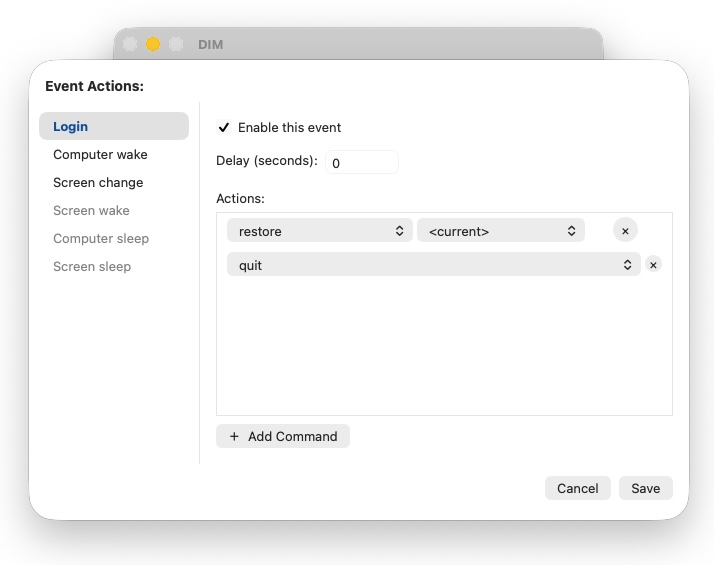
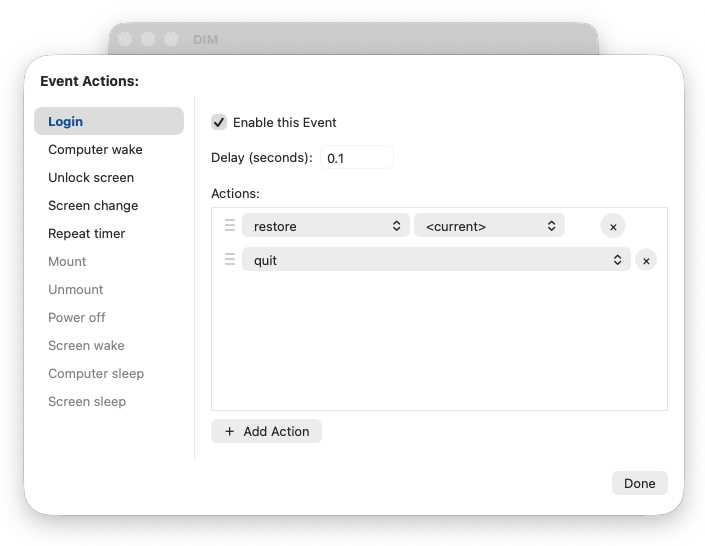
update Help

diff --git a/DIM/Resources/DIM 4.0.help/Contents/Resources/en.lproj/Miscellaneous.html b/DIM/Resources/DIM 4.0.help/Contents/Resources/en.lproj/Miscellaneous.html
@@ -19,17 +19,19 @@
 <p class="Left Normal"><b>2) Known Problems/Bugs</p>
 </b><p class="Left Normal">Multiple monitors are <i>technically</i> not supported. However, my own use (along with 100s of users) show no problems if both monitors’ arrangements are not changed between the “Memorize Icon Positions” and “Restore Icon Positions”. The worst case scenario here is that some icons may be placed outside of either monitors’ viewing area. If this is the case, click anywhere on the Desktop and then in the Finder’s View menu, simply select Clean Up and all the icons will reappear, most likely in places you don’t like, but at least you can rearrange them. </p>
 <p class="Left Normal"><b>3) Tricks</b></p>
-<p class="Left Normal">After the first time use, specifying DIM as a Login Item will adjust the icons positions after the Finder starts up (make sure to check “Automatically Restore Icon Positions at start” for this behavior).</p>
-<p class="Left Normal">DIM uses its own preference file (stored in ~/Library/Containers/DIM or ~/Library/Group Containers/group.com.parker9.DIM-4 for v4.6+) so previous versions of DIM will still work and different users can use the same application for their own Desktop and Finder windows. Starting in version 4.6, preferences are stored in an App Group preference. This allows for data exchange between sandboxed applications (here, DIM Helper and Hide Icons). The old preference file will be used to create the initial Add Group preferences but otherwise ignored for versions 4.6+.</p>
-<p class="Left Normal">If "Memorize icon Postions" is checked and "at Quit" is selected then quiting, log off, restart and shutdown all trigger a memorization.  </p>
+<p class="Left Normal">After the first time use, specifying DIM as a Login Item will adjust the icons positions after the Finder starts up (make sure to check “Automatically Restore Icon Positions at start” for this behavior). However, if you're running macOS 13 (Ventura) or later, it's better to "Start DIM Helper" and specify actions for the "Login" event. You can do both, but note that any actions DIM Helper does only are executed if DIM is not open. See <b>14</b> on "After the first time use" in this Help for more information.</p>
+<p class="Left Normal">DIM uses its own preference file (stored in ~/Library/Containers/DIM) so different users can use the same application for their own Desktop and Finder windows. Starting in version 4.6, additional preferences are stored in an App Group preference. This allows for data exchange between sandboxed applications (here, DIM Helper and Hide Icons).</p>
+<p class="Left Normal">If "Memorize icon Positions" is checked and "at Quit" is selected then quitting, log off, restart and shutdown all trigger a memorization.  </p>
 <p class="Left Normal"><b>4) Exporting/Importing Settings</b></p>
-<p class="Left Normal">You can import/export DIM Settings from the File menu. Please note, Settings may contain sensitive information (e.g. icon names). These Settings are transferrable between different users and/or Macs. Exported Settings can be viewed in Xcode or via Terminal by using "defaults read <i>exported_settings_file</i>" command. During import, one has options to completely replace the current Settings, merge into current Settings or merge current Settings into the imported Settings. For the latter two options, if the current Settings and imported Settings share an icon Arrangment the resulting icon Arrangemnt will be the union of the two if "include any missing icons" is selected otherwise the specified icon Arrangment is used.</p>
+<p class="Left Normal">You can import/export DIM Settings from the File menu. Please note, Settings may contain sensitive information (e.g. icon names). These Settings are transferrable between different users and/or Macs. Exported Settings can be viewed in Xcode or via Terminal by using "defaults read <i>exported_settings_file</i>" command. During import, one has options to completely replace the current Settings, merge into current Settings or merge current Settings into the imported Settings. For the latter two options, if the current Settings and imported Settings share an icon Arrangement the resulting icon Arrangement will be the union of the two if "include any missing icons" is selected otherwise the specified icon Arrangement is used.</p>
 <p class="Left Normal"><b>5) Checking for updates</b></p>
 <p class="Left Normal">DIM allows one to check for updates from the main DIM menu. If an update is available, you can either download directly through DIM or use a browser to retrieve the update. Checking for updates may take awhile depending of local machine load and network connection quality. Regardless, no information is sent to the servers other than your IP number which is only tracked by the hosting servicer.</p>
 <p class="Left Normal"><b>6) System Events</b></p>
-<p class="Left Normal">If DIM Helper is running, you can have DIM respond to certain system events (for example: login, computer wake, etc.) with various actions (for example: restore, quit, etc.) if DIM is <i>not</i> running.  One can use both the Login event and the default behavior of how DIM starts since any actions caused by an event bypasses the default start behavior of DIM. Finally, DIM must not be running when any action is triggered, otherwise the actions will be ignored.</p>
-<p class="Left Normal"><b>7) FAQ</b></p>
-<p class="Left Normal"><i><u>DIM doesn’t seem to be working correctly, what’s going on?</u></i><u> </u>Strange, it’s been working fine for me and many others. First, you are running macOS 10.10 or later? If not, go find <a href="http://www.parker9.com/desktopIconManager4.html#d">DIM 2.1.0</a>, that should work for you (unless you're really old school and are running System 7.5-9, then you need <a href="http://www.parker9.com/desktopIconManager4.html#d">DIM 1.3.1</a>). Next, with DIM not running, try deleting the folder ~/Library/Containers/DIM/ (the “~” means your home directory, you’ll probably need to use Finder’s Go>Go to Folder… to get there). Later versions of macOS cache some files, so a logout/restart may be necessary. Then try DIM again. If that doesn’t work, try downloading a fresh copy of DIM. If still not working, perhaps macOS has decided not to allow DIM to talk to the Finder. Go to System Settings…>Privacy & Security and select Automation on the right tab, it should have an entry for DIM on the right that looks something like
+<p class="Left Normal">If DIM Helper is running, you can have DIM respond to certain system events (for example: login, computer wake, etc.) with various actions (for example: restore, quit, etc.) if DIM is <i>not</i> running.  One can use both the Login event and the default behavior of how DIM starts since any actions caused by an event bypasses the default start behavior of DIM. Finally, DIM must not be running when any action is triggered, otherwise the actions will be ignored. DIM Helper and Hide Icons are only available on Ventura and latter.</p>
+<p class="Left Normal"><b>7) Terminal commands</b></p>
+<p class="Left Normal">On Big Sur (macOS 11) and later, you can monitor DIM via the <i>log stream --predicate 'subsystem == "com.parker9.DIM-4"' --level debug</i> in Terminal to observe various events DIM and its helper apps are doing. For any version of macOS, one can inspect/modify the main DIM preference file with <i>defaults read com.parker9.DIM-4</i> while <i>defaults read ~/Library/Group\ Containers/group.com.parker9.DIM-4/Library/Preferences/group.com.parker9.DIM-4.plist</i> does the same for the Group App preferences file.</p>
+<p class="Left Normal"><b>8) FAQ</b></p>
+<p class="Left Normal"><i><u>DIM doesn’t seem to be working correctly, what’s going on?</u></i><u> </u>Strange, it’s been working fine for me and many others. First, you are running macOS 10.10 or later? If not, go find <a href="http://www.parker9.com/desktopIconManager4.html#d">DIM 2.1.0</a>, that should work for you (unless you're really old school and are running System 7.5-9, then you need <a href="http://www.parker9.com/desktopIconManager4.html#d">DIM 1.3.1</a>). Next, with DIM not running, try deleting the main preference by <i>defaults delete com.parker9.DIM-4</i> in Terminal. Then try DIM again. If that doesn’t work, try downloading a fresh copy of DIM. If still not working, perhaps macOS has decided not to allow DIM to talk to the Finder. Go to System Settings…>Privacy & Security and select Automation on the right tab, it should have an entry for DIM on the right that looks something like
 <img src="Miscellaneous.jpg" alt="" />
 </p>
 <p class="Left Normal">Select Finder under DIM. If DIM is <b>not</b> listed, then macOS has decided that DIM can not talk to the Finder. Unfortunately, the only way I know how to fix this is quit DIM and then go into Terminal (Applications/Utilities) and type “tccutil reset AppleEvents” (without the quotes) and hit return/enter. Running DIM now should pop up an macOS alert and make sure you say “OK”. If it’s still not working, you can delete all permissions granted to DIM in the Terminal. First, Quit DIM and in the Terminal enter "sqlite3 ~/Library/Application\ Support/com.apple.TCC/TCC.db 'DELETE FROM access WHERE client IS "com.parker9.DIM-4"'" (strip the outer quotes, but keep the rest). For more information please see <a href="https://entonos.com/2023/06/23/how-to-modify-tcc-on-macos/">here</a>. If that fails, you can drop me an email at DIM@parker9.com with as much detail as you can about the problem, including the macOS version you are using.</p>
@@ -40,10 +42,14 @@
 <!--
 <p class="Left Normal"><i><u>Instead of icons, can DIM place windows at saved locations?</u></i> Yes, but only for windows in Icon View.</p>
 -->
-<p class="Left Normal"><i><u>When “Automatically Restore Icon Positions at start” and “Quit” are selected, the countdown is too slow/fast!</u></i> The integer <em>quitCount</em> in DIM's plist file is how many 1/5 of a second to wait before quiting. If not present, the value is assumed to be 20. <em>defaults write com.parker9.DIM-4 quitCount 50</em> in the Terminal would cause DIM to wait 10 seconds before quiting.</p>
-<p class="Left Normal"><i><u>After waking from sleep or the number/position of displays change, DIM will automatically Restore Icon Positions.</u></i> The double <em>waitRestore</em> in DIM's plist file is how many seconds to wait before restoring. If not present, the value is assumed to be 10.0. <em> defaults write ~/Library/Group\ Containers/group.com.parker9.DIM-4/Library/Preferences/group.com.parker9.DIM-4.plist waitRestore -float 3.5</em> (or <em>defaults write com.parker9.DIM-4 waitRestore -float 3.5</em> for versions before 4.6) in the Terminal would cause DIM to wait 3.5 seconds before restoring after waking. A value of 0.0 will stop the automatic restore.</p>
+<p class="Left Normal"><i><u>When “Automatically Restore Icon Positions at start” and “Quit” are selected, the countdown is too slow/fast!</u></i> The integer <em>quitCount</em> in DIM's plist file is how many 1/5 of a second to wait before quitting. If not present, the value is assumed to be 20. <em>defaults write com.parker9.DIM-4 quitCount 50</em> in the Terminal would cause DIM to wait 10 seconds before quitting.</p>
+<p class="Left Normal"><i><u>After waking from sleep or the number/position of displays change, DIM will automatically Restore Icon Positions.</u></i> The double <em>waitRestore</em> in DIM's plist file is how many seconds to wait before restoring. If not present, the value is assumed to be 10.0. <em> defaults write ~/Library/Group\ Containers/group.com.parker9.DIM-4/Library/Preferences/group.com.parker9.DIM-4.plist waitRestore -float 3.5</em> (or <em>defaults write com.parker9.DIM-4 waitRestore -float 3.5</em> for versions before 4.6) in the Terminal would cause DIM to wait 3.5 seconds before restoring after waking. A value of 0.0 will stop the automatic restore. If you running macOS 13 (Ventura) or higher, "Start DIM Helper" will allow a "Repeat timer" or "Power off" to achieve the same effect. In this case, DIM must not be running.</p>
+<p class="Left Normal"><i><u>"DIM Helper"/"Hide Icons"/"Dock plugin" isn't working.</u></i> All of these should have been installed either on first run or when you Start either helper app. Perhaps their permissions were turned off. Go to "System Settings...>General>Login Items & Extensions" and confirm DIM is enabled under "App Background Activity" (for <i>DIM Helper</i> and <i>Hide Icons</i>) and "Extensions" (for <i>Dock plugin</i>):</p>
+<p class="Left Normal">
+<img src="Miscellaneous1.jpg" alt="" />
+</p>
 <p class="Left Normal"><i><u>Checking for updates doesn't seem to be working</u></i> To check for updates, the Mac must be connected and have access to the internet. If you are getting an error, it probably means that one or more of the servers are down. Simply try again in a few minutes. DIM also needs read/write permission to the Download folders. If it continues to fail, please contact us with any errors it is displaying and what version of DIM is being used.</p>
-<p class="Left Normal"><i><u>I want to uninstall DIM, what do I do?</u></i> Uninstalling DIM is done by simply dragging DIM to the Trash. DIM also created a folder in your home directory at ~/Library/Containers/DIM which you can either delete or leave.</p>
+<p class="Left Normal"><i><u>I want to uninstall DIM, what do I do?</u></i> Uninstalling DIM is done by simply dragging DIM to the Trash (you may want to Stop Dim Helper and Hide Icons first, if they are running- otherwise the system should eventually figure it out and stop them itself). DIM also created two folders in your home directory at ~/Library/Containers/DIM and ~/Library/Group\ Containers/group.com.parker9.DIM-4 which you can either delete or leave.</p>
 <p class="Left Normal"><i><u>Hey, I want to send you money for such a cool thing, how can I do that?</u></i> Really? I’m sure my wife (and kids) would like that, but it’s not required. If you really do, on the upper right corner, hit the red “Donate?”. Thanks in advance!</p>
 <p class="Left Normal"><b>8) Files in the distribution</b></p>
 <p class="Left Normal">This distribution zip should contain the DIM application and a README file. The actual source code and everything needed to recompile DIM is stored on github. Check the README file for the github address (currently <a href="https://github.com/com-entonos/Desktop-Icon-Manager">https://github.com/com-entonos/Desktop-Icon-Manager</a>).</p>

diff --git a/DIM/Resources/DIM 4.0.help/Contents/Resources/en.lproj/After_the_first_time_use.html b/DIM/Resources/DIM 4.0.help/Contents/Resources/en.lproj/After_the_first_time_use.html
@@ -18,7 +18,7 @@
 <p class="Left Normal"><b>1) To Always Get Back to main DIM window</b></p>
 <p class="Left Normal">If “Automatically Restore Icon Positions at start” is checked and “Quit” is selected, you will not be able to get back to the DIM screen to change icon arrangements. By holding the command (⌘) when starting, you will get the window to appear (starting this way will not restore the icon positions but will simply present the window). This allows you to reconfigure DIM. If you are having problems doing this, the best way is to find DIM, select it and then hold command (⌘) and press the letter “o” (for Open), let go of “o” but keep command (⌘) pressed until DIM starts. </p>
 <p class="Left Normal"><b>2) If both Automatic Restore and Quit are selected</b></p>
-<p class="Left Normal">Then DIM will simply restore the icon positions using the selected Icon Arrangement (as specified in the “Use Icon Arrangement” line) without asking and quits automatically (wonderful if DIM is specified as a Login Item).</p>
+<p class="Left Normal">Then DIM will simply restore the icon positions using the selected Icon Arrangement (as specified in the “Use Icon Arrangement” line) without asking and quits automatically (wonderful if DIM is specified as a Login Item, but if you're running Ventura (macOS 13) or later, DIM Helper is a better option: see <b>14</b> below').</p>
 <p class="Left Normal"><b>3) Restoring icon positions</b></p>
 <p class="Left Normal">By pressing the “Restore Icon Positions” button, all icon positions (if they still exist!) will be restored according to the selected Icon Arrangement (as specified in the “Use Icon Arrangement” line). If the screen resolution has changed since the last “Memorize Icon Positions” or the original running of DIM, the Desktop icon positions are relatively scaled in the new screen resolution. If there are new icons on the Desktop, they are left where they are. This procedure may take a few seconds, but it’s not like you can’t do something else as it finishes its task.</p>
 <p class="Left Normal"><b>4)  (Re)Memorizing icon Positions</b></p>
@@ -63,7 +63,7 @@
 <p class="Left Normal">By choosing the “Hide Desktop Icons” option in the action (
 <img src="After_the_first_time_use.jpg" alt="" />
 ) drop down menu, any icons on the Desktop will be hidden. By selecting "Show Desktop Icons", they will be unhidden.</p>
-<p class="Left Normal">On macOS 13 (Ventura) and later, the app <a href="https://parker9.com/HideIcons.html#d">Hide Icons</a> is bundled inside of DIM as a LoginItem. By choosing "Start Hide Icons", Hide Icons will be run immediately and at login. You can stop it either through DIM or directly through Hide Icons menu.</p>
+<p class="Left Normal">On macOS 13 (Ventura) and later, the app <a href="https://parker9.com/HideIcons.html#d">Hide Icons</a> is bundled inside of DIM as a LoginItem instead. By choosing "Start Hide Icons", Hide Icons will be run immediately and at login. You can stop it either through DIM or directly through Hide Icons menu.</p>
 <p class="Left Normal"><b>11)  Checking for updates</b></p>
 <p class="Left Normal">By selecting "Check for update..." in the main DIM menu, you are granting permission for DIM to reach out (via https) to an update server. If there is no update available or an error occurs, then this menu item will be updated accordingly. Otherwise a sheet will appear on the main DIM window giving an option of downloading the update, visiting the website or canceling. If downloading is chosen, the update will be downloaded to the local Downloads folder and the menu item will change to "Locate new update". You should then quit DIM and replace it with the updated version. Otherwise, if there is an error, the menu item will be updated.</p>
 <p class="Left Normal"><b>12)  Starting from the command line (Terminal or script)</b></p>
@@ -90,14 +90,14 @@
 </p>
 <p class="Left Normal">where <em>[arrangement]</em> is an optional name of the Icon Arrangement to use. If not provided, the current Arrangement is assumed. Multiple options can be invoked and they will execute from left to right. Therefore, if "--quit" is present, it should be the last option on the command line. For example, <em>open -a DIM --args --add "Start Up" --restore --select-missing-icons</em> would memorize the current Desktop icon arrangement in "Start Up" arrangement (creating one if necessary). Then DIM restores the icons according to the current arrangement. And finally DIM would select any icons that are not present in the current arrangement. DIM will stay open, since the <em>--quit</em> option was not used.</p>
 <p class="Left Normal"><b>13)  Quick Restore and Memorize</b></p>
-<p class="Left Normal">By right-clicking (or holding) the Dock icon, a menu for Restore or Memorize each of the stored Arrangement allows for quick Restore/Memorize. "Restore" and "Memorize" options use the current Arrangement. Holding the option key (⌥) while invoking the Dock menu changes "Memorize" to "Purge". One can Hide DIM so it doesn't take any screen space.</p>
+<p class="Left Normal">By right-clicking (or holding) the Dock icon, a menu for Restore or Memorize each of the stored Arrangement allows for quick Restore/Memorize. "Restore" and "Memorize" options use the current Arrangement. Holding the option key (⌥) while invoking the Dock menu changes "Memorize" to "Purge". If DIM is not running, then Dock will only give a few options, but if selected it will start DIM, do the requested action and then quit DIM automatically for you.</p>
 
 <p class="Left Normal"><b>14)  DIM Helper and actions after certain events</b></p>
-<p class="Left Normal">By choosing the “Start DIM Helper” in the action (
+<p class="Left Normal">On macOS 13 (Ventura) and above, choosing “Start DIM Helper” in the action (
 <img src="After_the_first_time_use.jpg" alt="" />
-) drop down menu, you will then be able to specify actions DIM should take when certain system events occur. Once again, in the action menu, select "Edit actions..." under the "DIM helper is running". The following will be presented:</p>
+) drop down menu, you can specify actions DIM should take when certain system events occur. When DIM Helper is first started (or, in the action menu, select "Edit actions..." under the "DIM helper is running"), the following will be presented:</p>
 <p class="Left Normal"><img src="After_the_first_time_use7.jpg" alt="" /></p>
-<p class="Left Normal">Clicking on any one Event on the left, you can Enable and specify actions that should DIM should do when the event happens. You can also specify a delay between the event and executing the action(s). These actions will only occur if DIM is not running. If DIM is running when an event happens, the action(s) will not execute. Details of allowable actions are described above in <b>12</b>. By default, we enable the first three Events.</p>
+<p class="Left Normal">Clicking on any one Event on the left, you can Enable and specify actions that DIM should do when the event happens. You can also specify a delay between the event and executing the action(s). These actions will only occur if DIM is not running. If DIM is running when an event happens, the action(s) will not execute. Details of allowable actions are described above in <b>12</b>. By default, we enable the first three Events. DIM Helper must remain running, but you can quit DIM.</p>
 
 <p class="Left Normal"><a href="Miscellaneous.html">Miscellaneous</a></p><a href="Miscellaneous.html">
 <p class="Left Normal"><a href="index.html">Index</a></p>

diff --git a/DIM/Resources/DIM 4.0.help/Contents/Resources/en.lproj/Welcome_to_DIM.html b/DIM/Resources/DIM 4.0.help/Contents/Resources/en.lproj/Welcome_to_DIM.html
@@ -18,8 +18,9 @@
 <p class="Left Normal">First, DIM allows you to save multiple icon arrangements. While you may only use one icon arrangement, there are others who prefer to use more than one for a variety of reasons. DIM allows you to have an infinite number of saved arrangements.</p>
 <p class="Left Normal">Next, DIM doesn’t get confused when you store an icon arrangement at one screen resolution and then restore them at a different screen resolution. In other words, if an icon is at the bottom right corner of the display when the icon positions are stored then that icon will always be placed at the bottom right corner regardless of the screen resolution.</p>
 <p class="Left Normal">DIM is a fully sandboxed, hardened and notarized application. This means it lives up to the strongest security policies that Apple has implemented on macOS. Further, DIM will never expose any user data to anyone or anywhere. Your data is yours, not DIM's.</p>
-<p class="Left Normal">You can export and import DIM Settings from one User/Mac tto another. Not sure why people want this, but it has been requested more than a few times. Please note, some potentially sensitive data (e.g. names of icons) are stored in Settings.</p>
-<p class="Left Normal">Finally, when DIM was originally written in 1998, it was a rather simple AppleScript running on on System 7.5. With the advent of Mac OS X 10.0, Apple broke AppleScript until version Mac OS X 10.4 (Tiger). At the same time they introduce a new technology called AppleScript Studio Application. This allowed DIM to be much more Mac-like. Unfortunately, AppleScript Studio Application is now depreciated. This caused various problems starting with early versions macOS 10.13 (High Sierra).</p>
+<p class="Left Normal">You can export and import DIM Settings from one User/Mac to another. Not sure why people want this, but it has been requested more than a few times. Please note, some potentially sensitive data (e.g. names of icons) are stored in Settings.</p>
+<p class="Left Normal">If you are running macOS 13.5 (Ventura) or later, the DIM includes two helper apps (<i>DIM Helper</i> and <i>Hide Icons</i>) and a new <i>Dock Plugin</i>. After first run of DIM, <i>Dock Plugin</i> will give a few actions for DIM by right-clicking (or holding) DIM's Dock icon. If you start <i>DIM Helper</i> and leave it running, you can have DIM respond with actions after certain Events (for example "Login", "Wake", "Unlock", ...) occur. These actions only happen if DIM is <b>not</b> running when the Event happens. Starting <i>Hide Icons</i> will launch an independent menu app that easily hides or show the Desktop icons. <i>Hide Icons</i> will automatically launch at login until it is stopped with "Stop Hide Icons"</p>
+<p class="Left Normal">Finally, when DIM was originally written in 1998, it was a rather simple AppleScript running on System 7.5. With the advent of Mac OS X 10.0, Apple broke AppleScript until version Mac OS X 10.4 (Tiger). At the same time they introduce a new technology called AppleScript Studio Application. This allowed DIM to be much more Mac-like. Unfortunately, AppleScript Studio Application is now depreciated. This caused various problems starting with early versions macOS 10.13 (High Sierra).</p>
 <p class="Left Normal">Turns out I had some time on my hands so I thought I would once again rewrite DIM. Since there is no way to control the Desktop or Finder window icon positions other than through AppleScript I decided to strip down the required AppleScript and make a bridge between those routines and Apple’s new programming language Swift using Apple's AppleScriptObjC framework. Inside of DIM are some AppleScript functions that are driven by Swift. Swift, meanwhile, takes care of all the user interactions. I hope this new version of DIM will have a lifetime even longer than the original versions. We’ll see.</p>
 
 <p class="Left Normal"><a href="First_time_use.html">First time use</a><a href="First_time_use.html"></a></p>

diff --git a/DIM/Resources/DIM 4.0.help/Contents/Resources/en.lproj/Contact_and_version_hist.html b/DIM/Resources/DIM 4.0.help/Contents/Resources/en.lproj/Contact_and_version_hist.html
@@ -17,7 +17,7 @@
 <p class="Left Normal">DIM’s home is located at http://www.parker9.com/script.html. Furthermore, email can be send to DIM@parker9.com and source code is available at https://github.com/com-entonos/Desktop-Icon-Manager</p>
 
 <p class="Left Normal">Version History</p>
-<p class="Left Normal">— 19 May 2026, v4.6- Move preferences to App Group preferences (~/Library/Group\ Containers/group.com.parker9.DIM-4/Library/Preferences/group.com.parker9.DIM-4.plist). Initialize AppleScriptObjC/DIMBridge on main thread via RunLoop. For macOS 13+ (Ventura and later), add DIM Helper and Hide Icons as Login Items. Helper monitors for certain events and then starts DIM with a list of actions. Hide Icons is a full menu app that hides the Desktop icons. It is a direct copy of the standalone app.</p>
+<p class="Left Normal">— 23 May 2026, v4.6- Start crash fixed when DIM's current Arrangement is a Finder window that is not open. Bug fix for opening a Finder window during Restore if the window is not currently open. Potential final fix required due to Apple change during AppleScriptObjC initialization. For macOS 13.5 (Ventura) and above, include two helper apps and a Dock plugin. DIM Helper app can monitor for Events and then run DIM actions. <a href="https://parker9.com/HideIcons.html#d">Hide Icons</a> helper app is a full menu app that quickly hides/shows the Desktop icons. Use App Group preferences (~/Library/Group\ Containers/group.com.parker9.DIM-4/Library/Preferences/group.com.parker9.DIM-4.plist) to share information between DIM and DIM Helper. Updated Help.</p>
 <p class="Left Normal">— 1 March 2026, v4.5.2- Avoid possible race/crash via Apple workaround: initialize AppleScriptObjC/DIMBridge on main thread.</p>
 <p class="Left Normal">— 14 February 2026, v4.5.1- Add menu items under File: "Restore(⌘R)/Memorize(⌘M)/Purge(⌥⌘M) Icon Positions". Ensure button, menu item and Dock menu reflect if option key (⌥) is down or not. Updated images and text in Help.</p>
 <p class="Left Normal">— 8 February 2026, v4.5- Three options if "Automatically Restore Icon Positions at start" is enabled: stay open, hide or quit.</p>

diff --git a/DIM/Resources/DIM 4.0.help/Contents/Resources/en.lproj/First_time_use.html b/DIM/Resources/DIM 4.0.help/Contents/Resources/en.lproj/First_time_use.html
@@ -28,7 +28,10 @@
 <p class="Left Normal">
 <img src="First_time_use2.jpg" alt="" />
 </p>
-<p class="Left Normal">instead.</p>
+<p class="Left Normal">instead. In addition, at first run DIM will start a Dock plugin and so an additional notification will be displayed:</p>
+<p class="Left Normal">
+<img src="First_time_use3.jpg" alt="" />
+</p>
 <p class="Left Normal">Regardless, DIM has already memorized all the Desktop icon names, their positions and the screen resolution and has stored this information to the folder ~/Library/Containers/com.parker9.DIM-4/ ("~" means your Home directory). It also created the default Icon Arrangement named, surprisedly, “Default” as seen by the “Use Icon Arrangement” line. You can now quit DIM (you do not need to leave it open or running), either close the window or select Quit from the menu.</p>
 <p class="Left Normal">If you check “Automatically Restore Icon Positions at start”, then DIM will Restore the icon positions (according to the selected Icon Arrangement) whenever it starts. You can further choose what do after restore: stay open, Hide or Quit. If "Quit” is selected, DIM will quit once it Restores the icon positions after starting.</p>
 
